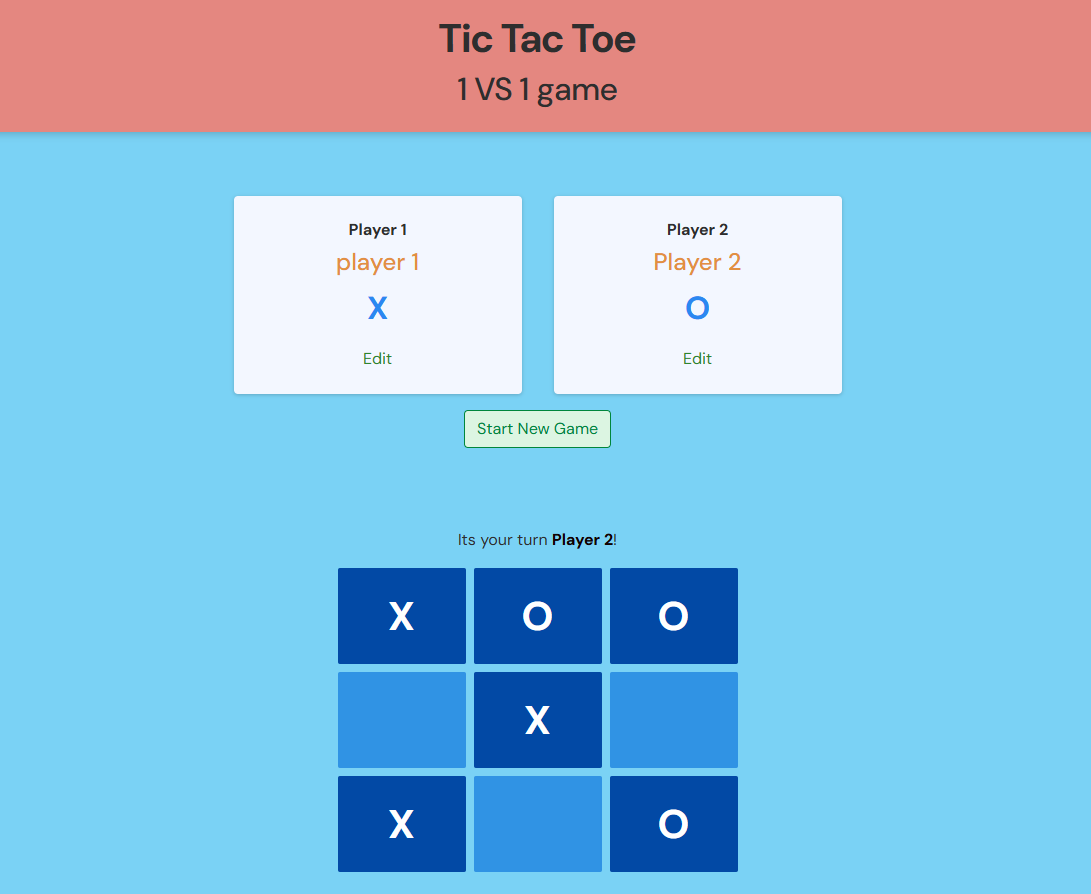
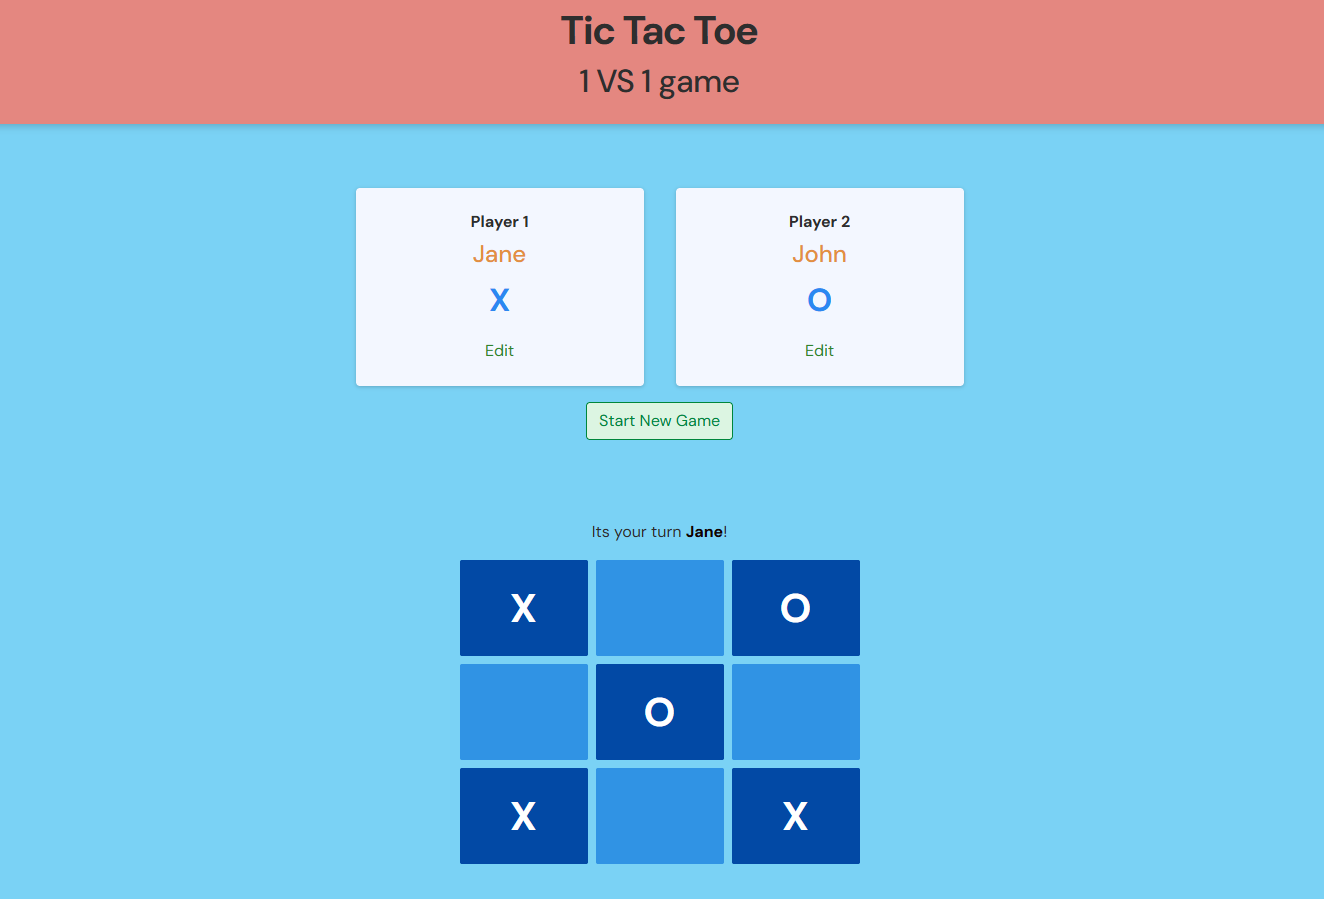
Added the projects and fixed the images

diff --git a/src/styles/ProjectCard.css b/src/styles/ProjectCard.css
@@ -1,14 +1,37 @@
 .project-card {
   display: flex;
   flex-direction: column;
+  min-width: 0;
+  width: 100%;
   /* box-shadow: 0 4px 12px rgba(0, 0, 0, 0.1); */
   border-radius: 0.3rem;
   /* padding-bottom: 0.2rem; */
 }
 
 .project-card img {
+  width: 100%;
+  max-width: 20rem;
+  aspect-ratio: 16 / 9;
+  object-fit: cover;
+  align-self: center;
   /* box-shadow: 0 4px 12px rgba(0, 0, 0, 0.1); */
   border-radius: 0.3rem;
+}
+
+.project-card h1 {
+  text-align: center;
+  margin: 0.35rem 0 0;
+}
+
+.project-description {
+  font-size: 0.9rem;
+  color: var(--ink);
+  line-height: 1.6;
+  margin: 0.75rem 0 1rem;
+}
+
+.project-description {
+  text-align: left;
 }
 
 a {
@@ -30,11 +53,6 @@ a {
 
 @media (max-width: 1000px) {
   .project-card {
-    display: flex;
-    flex-direction: column;
-    left: 3rem;
-    align-items: center;
-    justify-content: center;
-    width: 60%;
+    align-items: stretch;
   }
 }

diff --git a/src/styles/Home.css b/src/styles/Home.css
@@ -47,11 +47,10 @@ h2 {
 }
 
 .projects {
-  display: flex;
-  flex-direction: row;
-  /* align-items: center; */
-  gap: 1rem;
-  justify-content: space-around;
+  display: grid;
+  grid-template-columns: repeat(3, minmax(0, 1fr));
+  gap: 1.5rem;
+  width: 100%;
 }
 .skill-points {
   display: flex;
@@ -99,13 +98,19 @@ hr {
     flex-wrap: wrap;
   }
 
-  .projects {
-    display: grid;
-    grid-template-columns: 1fr;
-    justify-items: center;
-    align-items: center;
-  }
   .button {
     width: 50%;
+  }
+}
+
+@media (max-width: 800px) {
+  .projects {
+    grid-template-columns: repeat(2, minmax(0, 1fr));
+  }
+}
+
+@media (max-width: 550px) {
+  .projects {
+    grid-template-columns: minmax(0, 1fr);
   }
 }

diff --git a/src/components/ProjectCard.tsx b/src/components/ProjectCard.tsx
@@ -21,13 +21,9 @@ export default function ProjectCard({
   return (
     <>
       <div className="project-card">
-        <img
-          src={src}
-          alt={alt}
-          style={{ maxWidth: "100%", height: "10rem" }}
-        />
+        <img src={src} alt={alt} />
         <h1>{title}</h1>
-        <p>{description}.</p>
+        <p className="project-description">{description}.</p>
 
         <div className="project-tags">
           {projectTags?.map((p, index) => (
